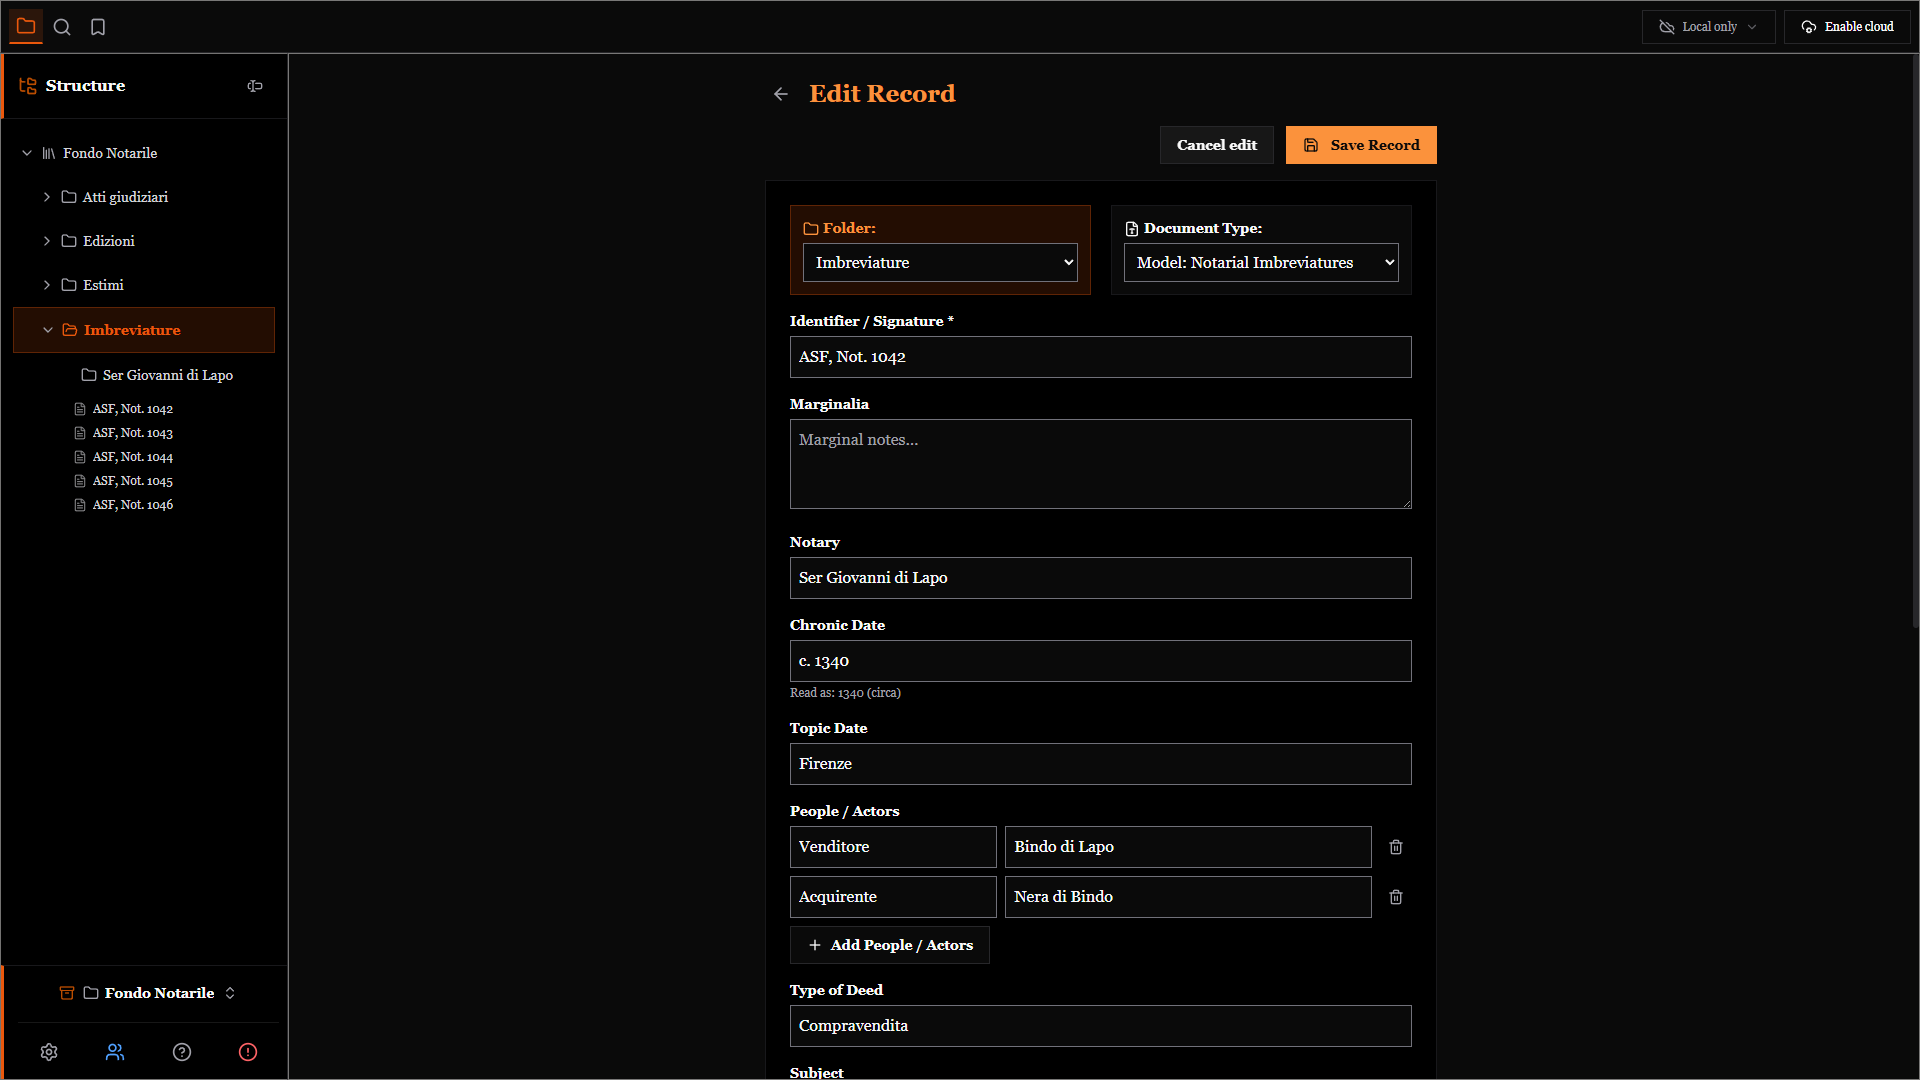
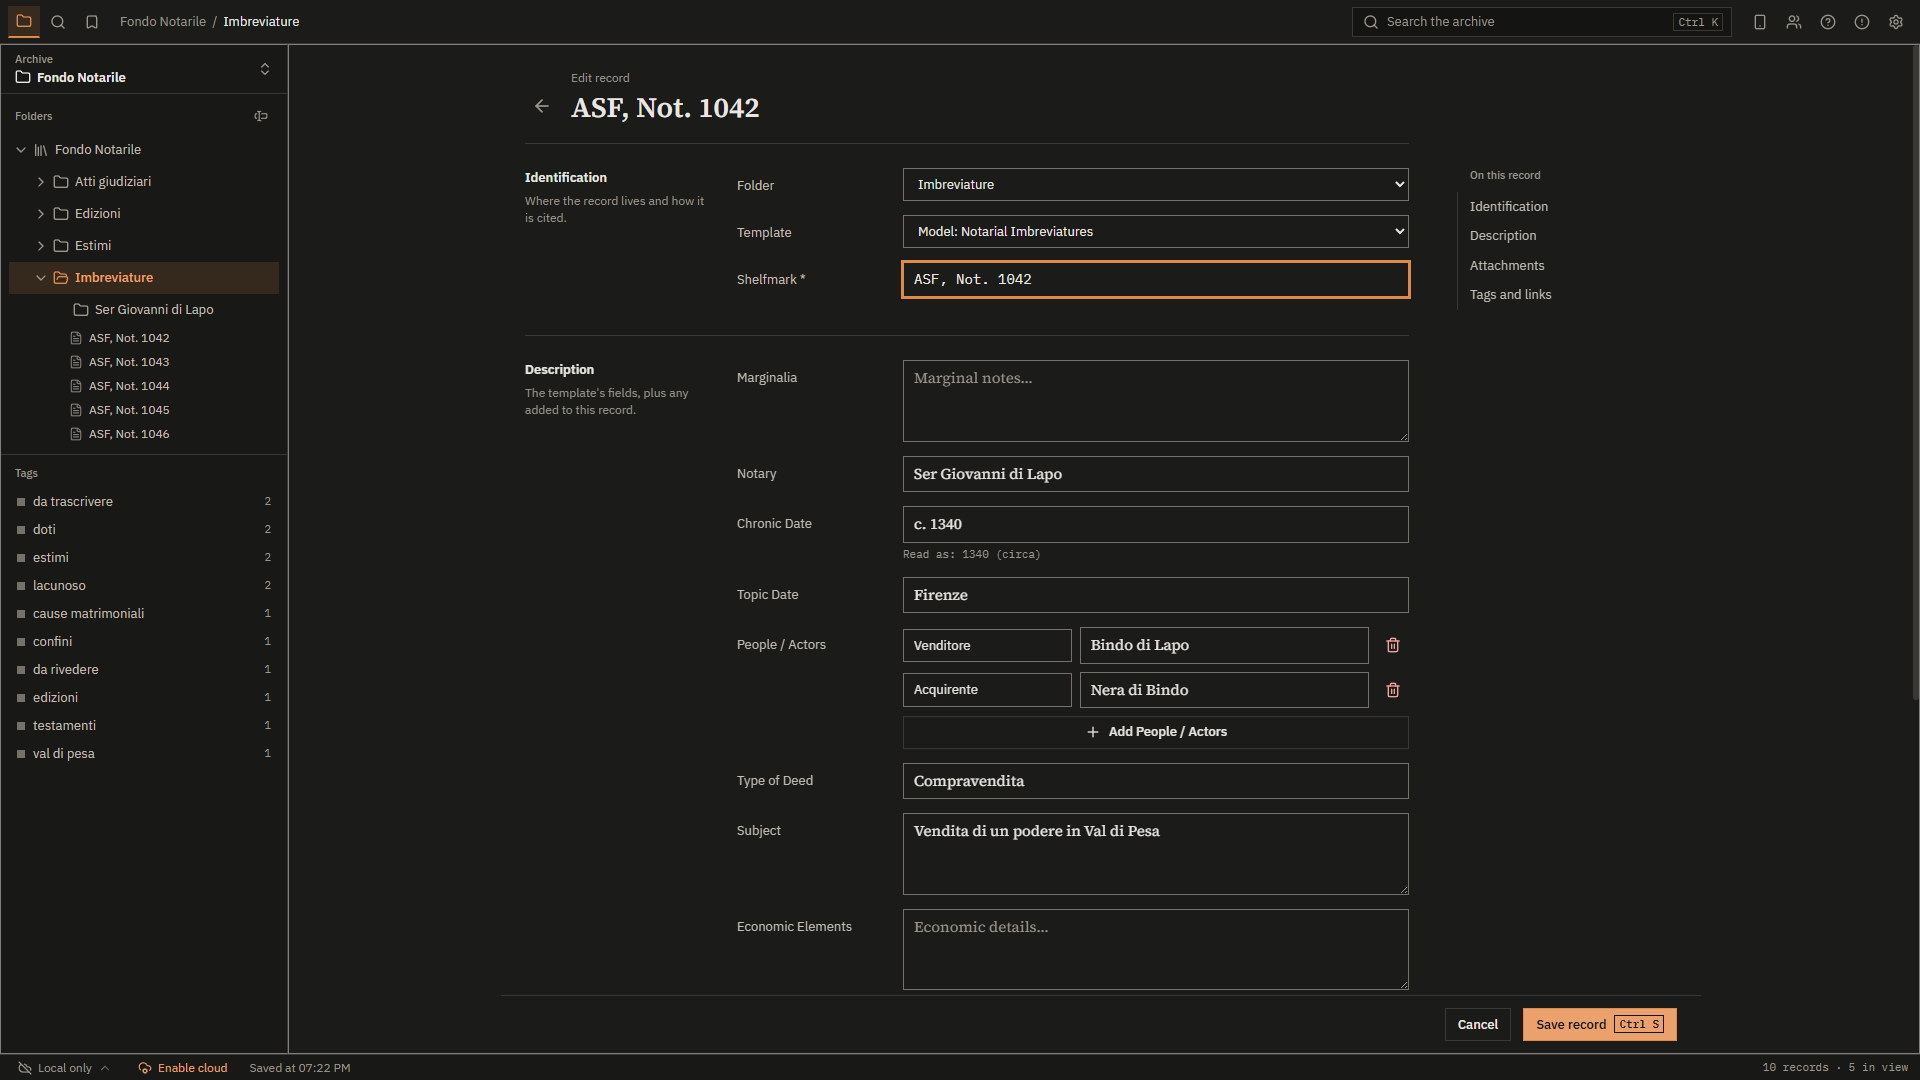
docs: screenshot del README rifatti con la nuova UI, vista tabella al posto della griglia

diff --git a/README-it.md b/README-it.md
@@ -1,8 +1,8 @@
 *Leggi in [Inglese](README.md)*
 
 <picture>
-  <source media="(prefers-color-scheme: dark)" srcset="docs/screenshots/it/vista-griglia-dark.png">
-  <img alt="La finestra principale di ArchiView: albero delle cartelle a sinistra, schede della cartella come riquadri" src="docs/screenshots/it/vista-griglia.png">
+  <source media="(prefers-color-scheme: dark)" srcset="docs/screenshots/it/vista-tabella-dark.png">
+  <img alt="La finestra principale di ArchiView: albero delle cartelle a sinistra, schede della cartella in tabella" src="docs/screenshots/it/vista-tabella.png">
 </picture>
 
 # ArchiView

diff --git a/README.md b/README.md
@@ -1,8 +1,8 @@
 _Read this in [Italian](README-it.md)_
 
 <picture>
-  <source media="(prefers-color-scheme: dark)" srcset="docs/screenshots/en/vista-griglia-dark.png">
-  <img alt="ArchiView main window: folder tree on the left, records of the selected folder as cards" src="docs/screenshots/en/vista-griglia.png">
+  <source media="(prefers-color-scheme: dark)" srcset="docs/screenshots/en/vista-tabella-dark.png">
+  <img alt="ArchiView main window: folder tree on the left, records of the selected folder in a table" src="docs/screenshots/en/vista-tabella.png">
 </picture>
 
 # ArchiView
